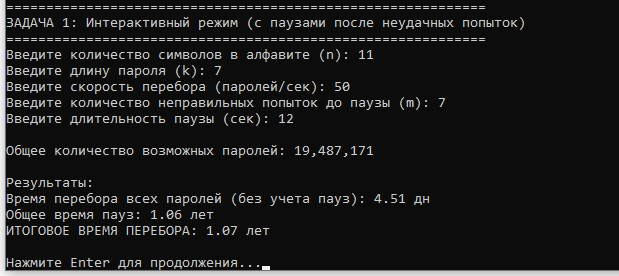
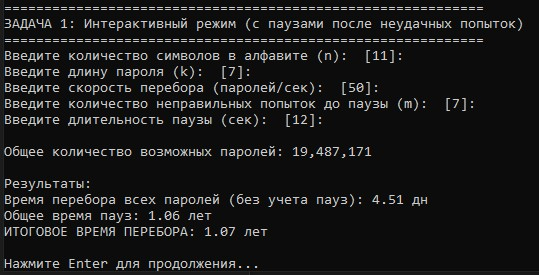
adding default_input

Changed region(s): [[0.0, 0.0, 1.0, 1.0]]

diff --git a/main.py b/main.py
@@ -1,5 +1,13 @@
 import math
 
+def default_input(text: str, default_value: str) -> str:
+    inp = input(f"{text} [{default_value}]: ")
+    if not inp:
+        return default_value
+    
+    return inp
+
+
 def format_time(seconds):
     """Convert seconds to human readable format"""
     if seconds < 60:
@@ -23,11 +31,11 @@ def task1():
     print("ЗАДАЧА 1: Интерактивный режим (с паузами после неудачных попыток)")
     print("="*60)
     
-    n = int(input("Введите количество символов в алфавите (n): "))
-    k = int(input("Введите длину пароля (k): "))
-    s = float(input("Введите скорость перебора (паролей/сек): "))
-    m = int(input("Введите количество неправильных попыток до паузы (m): "))
-    v = float(input("Введите длительность паузы (сек): "))
+    n = int(default_input("Введите количество символов в алфавите (n): ", "11"))
+    k = int(default_input("Введите длину пароля (k): ", "7"))
+    s = float(default_input("Введите скорость перебора (паролей/сек): ", "50"))
+    m = int(default_input("Введите количество неправильных попыток до паузы (m): ", "7"))
+    v = float(default_input("Введите длительность паузы (сек): ", "12"))
     
     total_passwords = n ** k
     print(f"\nОбщее количество возможных паролей: {total_passwords:,}")
